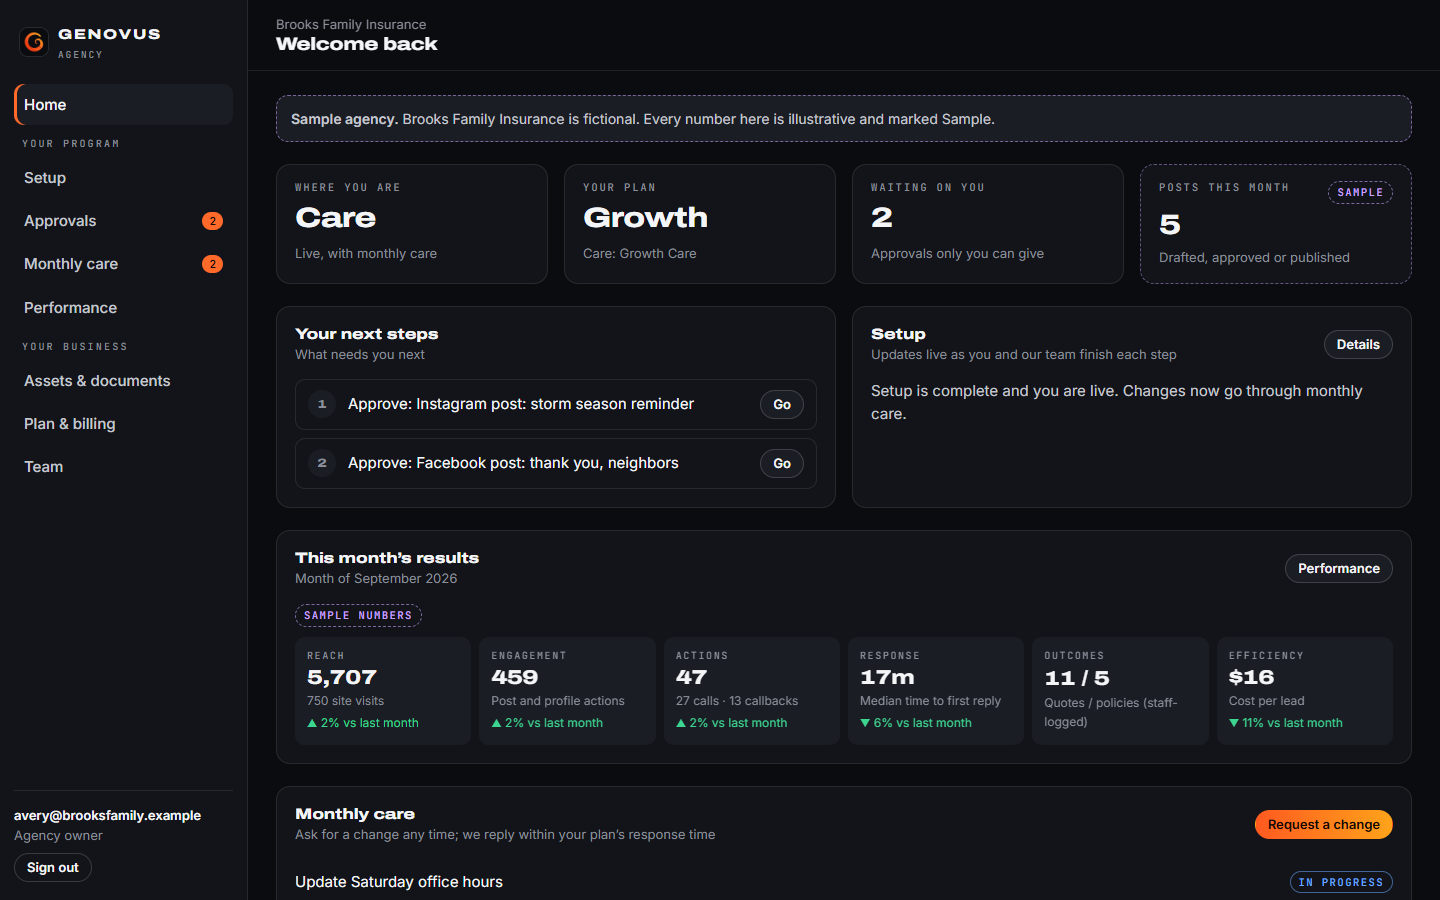
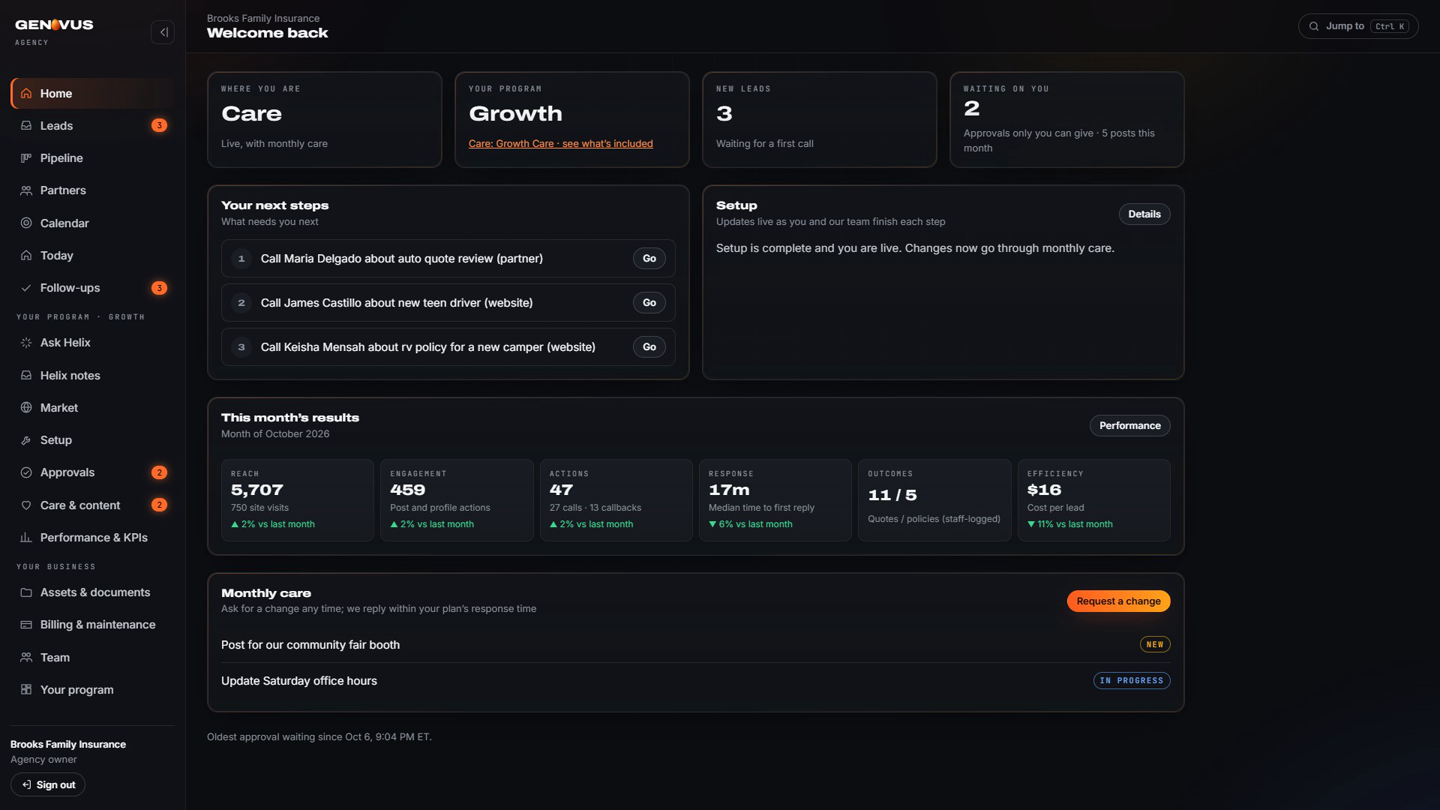
Screen Library: the Enterprise console runs like a working business
stage-enterprise.mjs (preview only): new website inquiries from fictional agencies, care plans on the sample
agencies in care (marked Sample; finance still counts real revenue only), fresh sample care requests, what Helix
has been taught, and a prospect call list of fictional offices (demo: place IDs shown by name with 555-01xx
numbers, never Google's). Care desk captured with samples; Prospects no longer pending. Homepage dashboard image
refreshed from the current Brooks home screen.

diff --git a/lib/places.ts b/lib/places.ts
@@ -11,6 +11,8 @@ const BASE = () => (process.env.PLACES_API_BASE || 'https://places.googleapis.co
 export const placesConfigured = () => Boolean(KEY());
 // Sample agencies' fictional partners carry "demo:<name>" place IDs (never Google's): shown by name, no lookup.
 const demoName = (placeId: string) => (placeId.startsWith('demo:') ? placeId.slice(5) : null);
+// A reserved fictional number (555-01xx) per sample office, stable by name.
+const demoPhone = (name: string) => `(706) 555-01${String([...name].reduce((h, c) => (h * 31 + c.charCodeAt(0)) % 90, 7) + 10).padStart(2, '0')}`;
 
 // Cost estimates (USD cents per call) for the budget cap, from Google's list prices: Text Search with name and
 // types bills as Text Search Pro; details with phone and website as Place Details Enterprise; name+address as
@@ -81,7 +83,7 @@ export type PlaceDetails = { name: string; address: string; phone: string | null
 /** Live details for display only; one fetch per place per page render; paused when the budget is spent. */
 export const getDetails = cache(async (placeId: string): Promise<PlaceDetails | null> => {
   const demo = demoName(placeId);
-  if (demo) return { name: demo, address: 'Riverside, GA', phone: null, website: null, mapsUrl: null, status: 'OPERATIONAL' };
+  if (demo) return { name: demo, address: '', phone: demoPhone(demo), website: null, mapsUrl: null, status: 'OPERATIONAL' };
   if (!placesConfigured()) return null;
   const b = await placesBudget();
   if (b.spent >= b.budget) return null;
@@ -97,7 +99,7 @@ export const getDetails = cache(async (placeId: string): Promise<PlaceDetails | 
 /** Name and address only (cheaper tier) for list rows; fetched live, never stored. */
 export const getSummary = cache(async (placeId: string): Promise<{ name: string; address: string } | null> => {
   const demo = demoName(placeId);
-  if (demo) return { name: demo, address: 'Riverside, GA' };
+  if (demo) return { name: demo, address: '' };
   if (!placesConfigured()) return null;
   const b = await placesBudget();
   if (b.spent >= b.budget) return null;

diff --git a/app/console/prospects/page.tsx b/app/console/prospects/page.tsx
@@ -30,7 +30,8 @@ export default async function Prospects({ searchParams }: { searchParams: Promis
   else q = q.in('status', OPEN_STATUSES);
   const { data: rows, count } = await q.order('fit_score', { ascending: false }).order('first_seen').range((page - 1) * PAGE, page * PAGE - 1);
   const live = placesConfigured();
-  const names = live ? await Promise.all((rows ?? []).map((r) => getSummary(r.place_id))) : [];
+  // Live names come from Google; sample offices ("demo:" place IDs) resolve without a lookup.
+  const names = await Promise.all((rows ?? []).map((r) => (live || r.place_id.startsWith('demo:') ? getSummary(r.place_id) : null)));
   const cname = new Map((carriers ?? []).map((c) => [c.id, c.name]));
   const pages = Math.max(1, Math.ceil((count ?? 0) / PAGE));
   const link = (patch: Partial<SP>) => {
